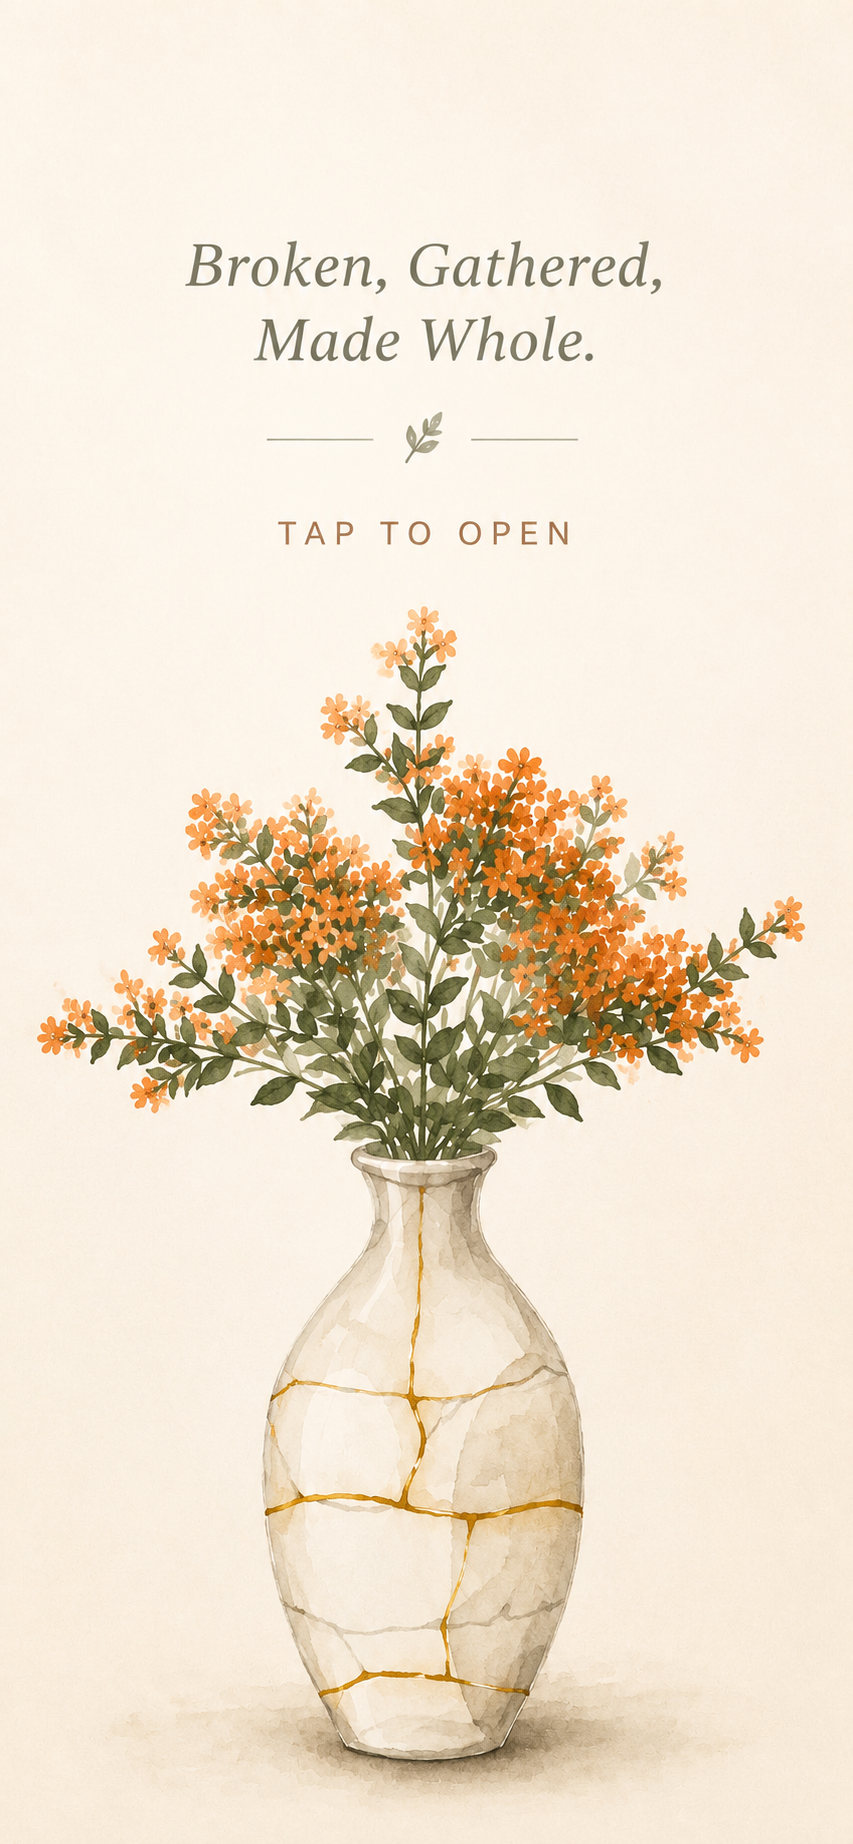
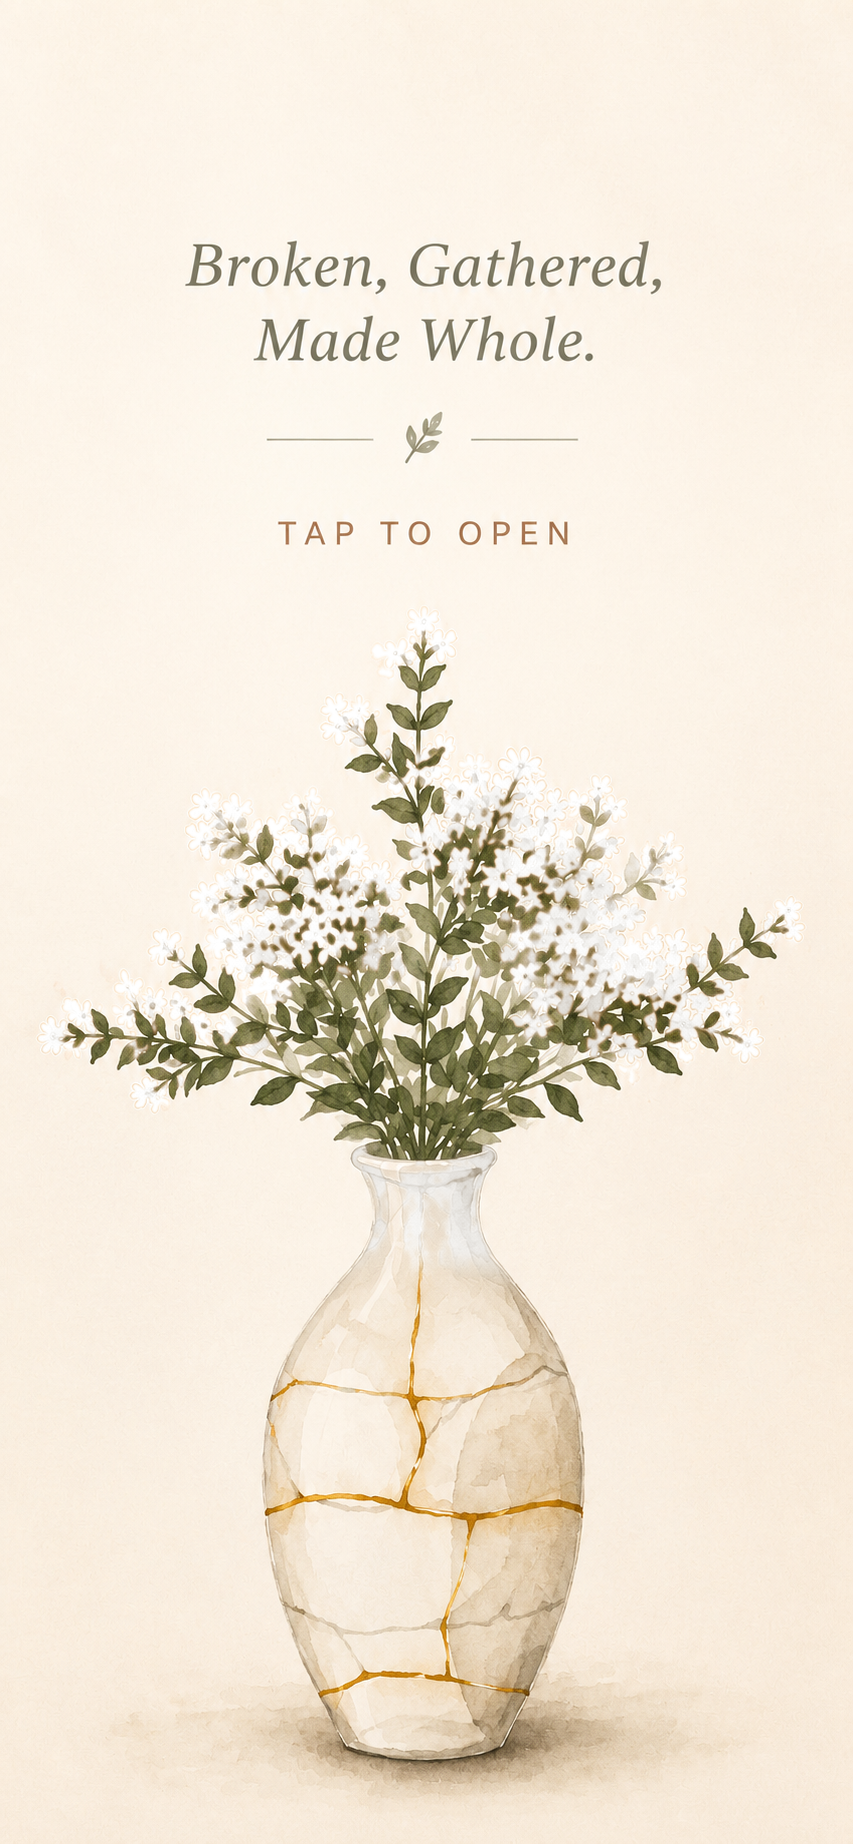
White blossom, first names, one vessel to a page
Five changes.

The cover's flowers are white. The painting is a raster, so this is a
measured recolour rather than a redraw: tools/whiten.py masks on three
conditions at once — a warm hue, real saturation, and the vertical band
the flowers occupy — because the gold in the vessel's joins and the clay
of TAP TO OPEN are the same hue as the blossom and had to survive. A
first pass used too wide a hue window and drained the green out of the
leaves with it; the two are cleanly apart in this painting, the flowers
at 22-33 degrees and light, the olive foliage at 50-61 and dark, so the
window closed to the flowers alone. White blossom cannot simply be
desaturated orange either — the paper is already RGB(253,245,234) and it
would sink in — so the petals are remapped onto a white range with their
shading kept, and a trace of warmth left in the shadows.

The couple are Karim and Nardien on the plate now, without their second
names.

HOUR reads TIME.

Every corner vessel is gone: eight of them across five pages, and with
them the padding that used to hold text clear of the one in the corner.

In their place each page carries a single large vessel at low opacity,
running off the bottom edge so it reads as a watermark rather than a
sticker. It is the drawing the corners used to carry in miniature, but
its blossom is white and its clay is pale stone instead of terracotta,
so it belongs to the cover the invitation opens on. Its colours are
[…]

Changed region(s): [[0.0305, 0.3091, 0.9449, 0.6182], [0.3962, 0.6182, 0.5791, 0.711]]

diff --git a/karim-nardine-invitation.html b/karim-nardine-invitation.html
@@ -86,19 +86,25 @@
   .bot.leaves-r{ background-image:url("botanicals/bot-leaves-right.webp");aspect-ratio:280/430; }
   .bot.flip{ transform:scaleX(-1); }
 
-  /* the vessels themselves, set small and quiet through the page: the same
-     thrown pot the story is told with, each one already mended */
-  .pot{ position:absolute; pointer-events:none; z-index:0; opacity:.38; aspect-ratio:300/400; }
-  .pot svg{ width:100%; height:100%; display:block; }
-  @media (max-width:640px){ .pot{ opacity:.34; } }
-  /* the filled urn, standing in the lower corner of every page */
-  .urn{ position:absolute; pointer-events:none; z-index:0; opacity:.42;
-        aspect-ratio:300/400; width:clamp(56px, 14.5vw, 124px); }
-  .urn svg{ width:100%; height:100%; display:block; }
-  @media (max-width:640px){ .urn{ opacity:.38; } }
-  @media (max-width:1199px){
-    .has-urn{ padding-bottom:calc(clamp(56px, 14.5vw, 124px) * 1.334 + 1.25rem) !important; }
+  /* One vessel to a page, large and barely there — a watermark the words sit
+     on rather than an ornament beside them. It is the same drawing the corners
+     used to carry in miniature, but the blossom is white and the clay is pale
+     stone, so it belongs to the cover the invitation now opens on. It runs off
+     the bottom edge: a big mark that stops short reads as a sticker. */
+  .ghost{
+    position:absolute; bottom:-7%; right:-4%; z-index:0; pointer-events:none;
+    aspect-ratio:300/400; width:clamp(240px, 52vw, 460px); opacity:.16;
+    --u-bud:#FFFFFF;   --u-bud-o:.92;   --u-budd:#F3EEE4; --u-budd-o:.7;
+    --u-spill-bud-o:.8;
+    --u-clay1:#EFE7D8; --u-clay1-o:.5;  --u-clay2:#E2D6C0; --u-clay2-o:.3;
+    --u-shade:#C9B698; --u-shade-o:.22; --u-foot:#B9A483;  --u-foot-o:.18;
+    --u-lite:#FFFDF8;  --u-back:#FBF6EC;
+    --u-pool:#BCAA8C;  --u-line:#9A8B70; --u-ring:#B3A288;
+    --u-stem:#7A8560;  --u-stem2:#8B9670;
+    --u-leafd:#6E7A52; --u-leafl:#8A9569;
   }
+  .ghost svg{ width:100%; height:100%; display:block; }
+  @media (max-width:640px){ .ghost{ opacity:.13; width:clamp(210px, 62vw, 340px); } }
   @media (max-width:640px){ .bot{ opacity:.88; } }
 
   .rule-line{ height:1px; background:linear-gradient(90deg,transparent,var(--rule),transparent); }
@@ -1461,9 +1467,9 @@
     Request the honour of your presence at the marriage of
   </p>
 
-  <p class="inv-t script" style="top:39.6%; font-size:calc(var(--h) * 0.05)">Karim Raef</p>
+  <p class="inv-t script" style="top:39.6%; font-size:calc(var(--h) * 0.05)">Karim</p>
   <p class="inv-t amp" style="top:45.2%; font-size:calc(var(--h) * 0.0245)">&amp;</p>
-  <p class="inv-t script" style="top:50.8%; font-size:calc(var(--h) * 0.05)">Nardien Raafat</p>
+  <p class="inv-t script" style="top:50.8%; font-size:calc(var(--h) * 0.05)">Nardien</p>
 
   <span class="inv-line" style="top:58%; width:18%"></span>
 
@@ -1476,7 +1482,7 @@
 
   <span class="inv-line" style="top:85.6%; width:14%"></span>
 
-  <p class="inv-t caps clay" style="top:89.1%; font-size:calc(var(--h) * 0.0152)">Hour</p>
+  <p class="inv-t caps clay" style="top:89.1%; font-size:calc(var(--h) * 0.0152)">Time</p>
   <p class="inv-t" style="top:93%; font-size:calc(var(--h) * 0.0238)">1:30 PM</p>
 </div>
 </section>
@@ -1500,10 +1506,10 @@
 </section>
 
 <!-- ════ A QUIET PAGE : the verse, and the days between ════ -->
-<section class="botanicals has-urn relative overflow-hidden py-24 sm:py-32 px-6 text-center">
+<section class="botanicals relative overflow-hidden py-24 sm:py-32 px-6 text-center">
+  <div class="ghost" aria-hidden="true"><svg viewBox="0 0 300 400"><use href="#urnMark"/></svg></div>
   
   <div class="bot leaves-r" style="top:0; right:0; width:34%"></div>
-  <div class="urn" style="bottom:0; right:4%"><svg viewBox="0 0 300 400"><use href="#urnMark"/></svg></div>
   <div class="bot blush-l" style="bottom:0; left:0; width:36%"></div>
   <div class="max-w-xl mx-auto">
     <p class="reveal font-serif italic text-lg sm:text-2xl text-ink/70 leading-relaxed">
@@ -1520,13 +1526,12 @@
   </div>
 </section>
 <!-- ════ PROGRAM ════ -->
-<section class="botanicals has-urn relative overflow-hidden py-20 sm:py-32 px-5 sm:px-6">
+<section class="botanicals relative overflow-hidden py-20 sm:py-32 px-5 sm:px-6">
+  <div class="ghost" aria-hidden="true"><svg viewBox="0 0 300 400"><use href="#urnMark"/></svg></div>
 
 
   <div class="bot stems-r" style="top:0; right:1%; width:18%"></div>
-  <div class="pot" style="top:1%; left:4%; width:17%"><svg viewBox="0 0 300 400"><use href="#vesselMark"/></svg></div>
   <div class="bot blush-l" style="bottom:0; left:0; width:32%"></div>
-  <div class="urn" style="bottom:0; right:4%"><svg viewBox="0 0 300 400"><use href="#urnMark"/></svg></div>
   <div class="max-w-3xl mx-auto relative">
     <div class="text-center">
       <p class="track text-[.54rem] uppercase text-clay reveal">The day</p>
@@ -1567,12 +1572,11 @@
 </section>
 
 <!-- ════ VENUE ════ -->
-<section class="botanicals has-urn relative overflow-hidden py-16 sm:py-28 px-5 sm:px-6">
+<section class="botanicals relative overflow-hidden py-16 sm:py-28 px-5 sm:px-6">
+  <div class="ghost" aria-hidden="true"><svg viewBox="0 0 300 400"><use href="#urnMark"/></svg></div>
 
   <div class="bot stems-l" style="top:0; left:1%; width:18%"></div>
-  <div class="pot" style="bottom:2%; left:6%; width:20%"><svg viewBox="0 0 300 400"><use href="#vesselMark"/></svg></div>
   <div class="bot leaves-r" style="top:0; right:0; width:30%"></div>
-  <div class="urn" style="bottom:0; right:4%"><svg viewBox="0 0 300 400"><use href="#urnMark"/></svg></div>
   <div class="max-w-3xl mx-auto relative">
     <div class="text-center">
       <p class="track text-[.54rem] uppercase text-clay reveal">Where</p>
@@ -1621,13 +1625,12 @@
 </section>
 
 <!-- ════ RSVP ════ -->
-<section id="rsvp" class="botanicals has-urn relative overflow-hidden py-20 sm:py-32 px-5 sm:px-6">
+<section id="rsvp" class="botanicals relative overflow-hidden py-20 sm:py-32 px-5 sm:px-6">
+  <div class="ghost" aria-hidden="true"><svg viewBox="0 0 300 400"><use href="#urnMark"/></svg></div>
 
 
   <div class="bot stems-r flip" style="top:0; right:1%; width:19%"></div>
-  <div class="pot" style="top:1%; left:5%; width:18%"><svg viewBox="0 0 300 400"><use href="#vesselMark"/></svg></div>
   <div class="bot blush-l" style="bottom:0; left:0; width:34%"></div>
-  <div class="urn" style="bottom:0; right:4%"><svg viewBox="0 0 300 400"><use href="#urnMark"/></svg></div>
   <div class="max-w-lg mx-auto relative">
     <div class="text-center">
       <p class="track text-[.54rem] uppercase text-clay reveal">Kindly reply</p>
@@ -1671,11 +1674,10 @@
   </div>
 </section>
 
-<footer class="botanicals has-urn relative overflow-hidden py-14 text-center px-6">
+<footer class="botanicals relative overflow-hidden py-14 text-center px-6">
 
   <div class="bot stems-l" style="bottom:0; left:2%; width:17%"></div>
   <div class="bot stems-r flip" style="top:0; right:2%; width:16%"></div>
-  <div class="urn" style="bottom:0; right:5%"><svg viewBox="0 0 300 400"><use href="#urnMark"/></svg></div>
   <div class="rule-line w-32 mx-auto mb-8 relative"></div>
   <p class="font-serif italic text-lg text-ink/70">He makes all things new.</p>
   <p class="track text-[.48rem] uppercase text-ink/30 mt-4 leading-loose">Karim &amp; Nardien &middot; Nineteen September &middot; Twenty Twenty Six</p>

diff --git a/tools/whiten.py b/tools/whiten.py
@@ -1,0 +1,57 @@
+"""Turn the cover painting's orange blossom white, and leave everything else.
+
+Only the blossom moves. The mask is three conditions at once: a warm hue, real
+saturation, and the vertical band the flowers occupy — because the gold in the
+vessel's joins and the clay of TAP TO OPEN are the same hue as the flowers and
+must not be touched. Every edge of the mask is feathered, or the recolour
+leaves a visible cut.
+
+White blossom on cream paper cannot simply be desaturated: it would sink into
+the background, since the paper is already RGB(253,245,234). So the petals are
+remapped onto a white range with their shading kept — the darks lift to a warm
+grey and the lights go to near-white — and a trace of warmth is left in the
+shadows so the mass still reads as painted rather than erased.
+"""
+from PIL import Image, ImageFilter
+import numpy as np, sys
+
+src, dst = sys.argv[1], sys.argv[2]
+im = Image.open(src).convert('RGB')
+hsv = np.asarray(im.convert('HSV')).astype(np.float32)
+H, S, V = hsv[..., 0].copy(), hsv[..., 1].copy(), hsv[..., 2].copy()
+h, w = H.shape
+
+def smooth(x, a, b):
+    t = np.clip((x - a) / (b - a), 0, 1)
+    return t * t * (3 - 2 * t)
+
+yy = np.arange(h, dtype=np.float32)[:, None] * np.ones((1, w), np.float32)
+# the flowers' band, soft at both ends so nothing cuts
+band = smooth(yy, 575, 615) * (1 - smooth(yy, 1245, 1300))
+# the blossom's hue and not the foliage's. The two are cleanly apart in this
+# painting: the flowers sit at hue 22-33 degrees and are light, the olive
+# leaves at 50-61 degrees and are dark. A wide window takes the leaves with it.
+hue = smooth(H, 4, 11) * (1 - smooth(H, 27, 35))
+# enough colour to be blossom rather than paper
+sat = smooth(S, 34, 62)
+# and not the deep shadow under the foliage, which is dark whatever its hue
+lit = 0.25 + 0.75 * smooth(V, 95, 145)
+a = band * hue * sat * lit
+a = np.asarray(Image.fromarray((a * 255).astype(np.uint8)).filter(
+    ImageFilter.GaussianBlur(1.2))).astype(np.float32) / 255.0
+
+# petals: keep the modelling, move the range to white
+lo, hi = 80.0, 250.0
+t = np.clip((V - lo) / (hi - lo), 0, 1)
+Vw = 197 + t * 58                      # 197 in the deepest shadow, 255 at the top
+Sw = (1 - t) * 20                      # warmth only where it is dark
+Hw = np.full_like(H, 26.0)             # a warm grey, not a colour
+
+H2 = H * (1 - a) + Hw * a
+S2 = S * (1 - a) + Sw * a
+V2 = V * (1 - a) + Vw * a
+
+out = Image.fromarray(np.stack([H2, S2, V2], -1).clip(0, 255).astype(np.uint8),
+                      'HSV').convert('RGB')
+out.save(dst)
+print('wrote', dst, out.size, 'mask touched %.1f%% of pixels' % (100 * (a > .02).mean()))
